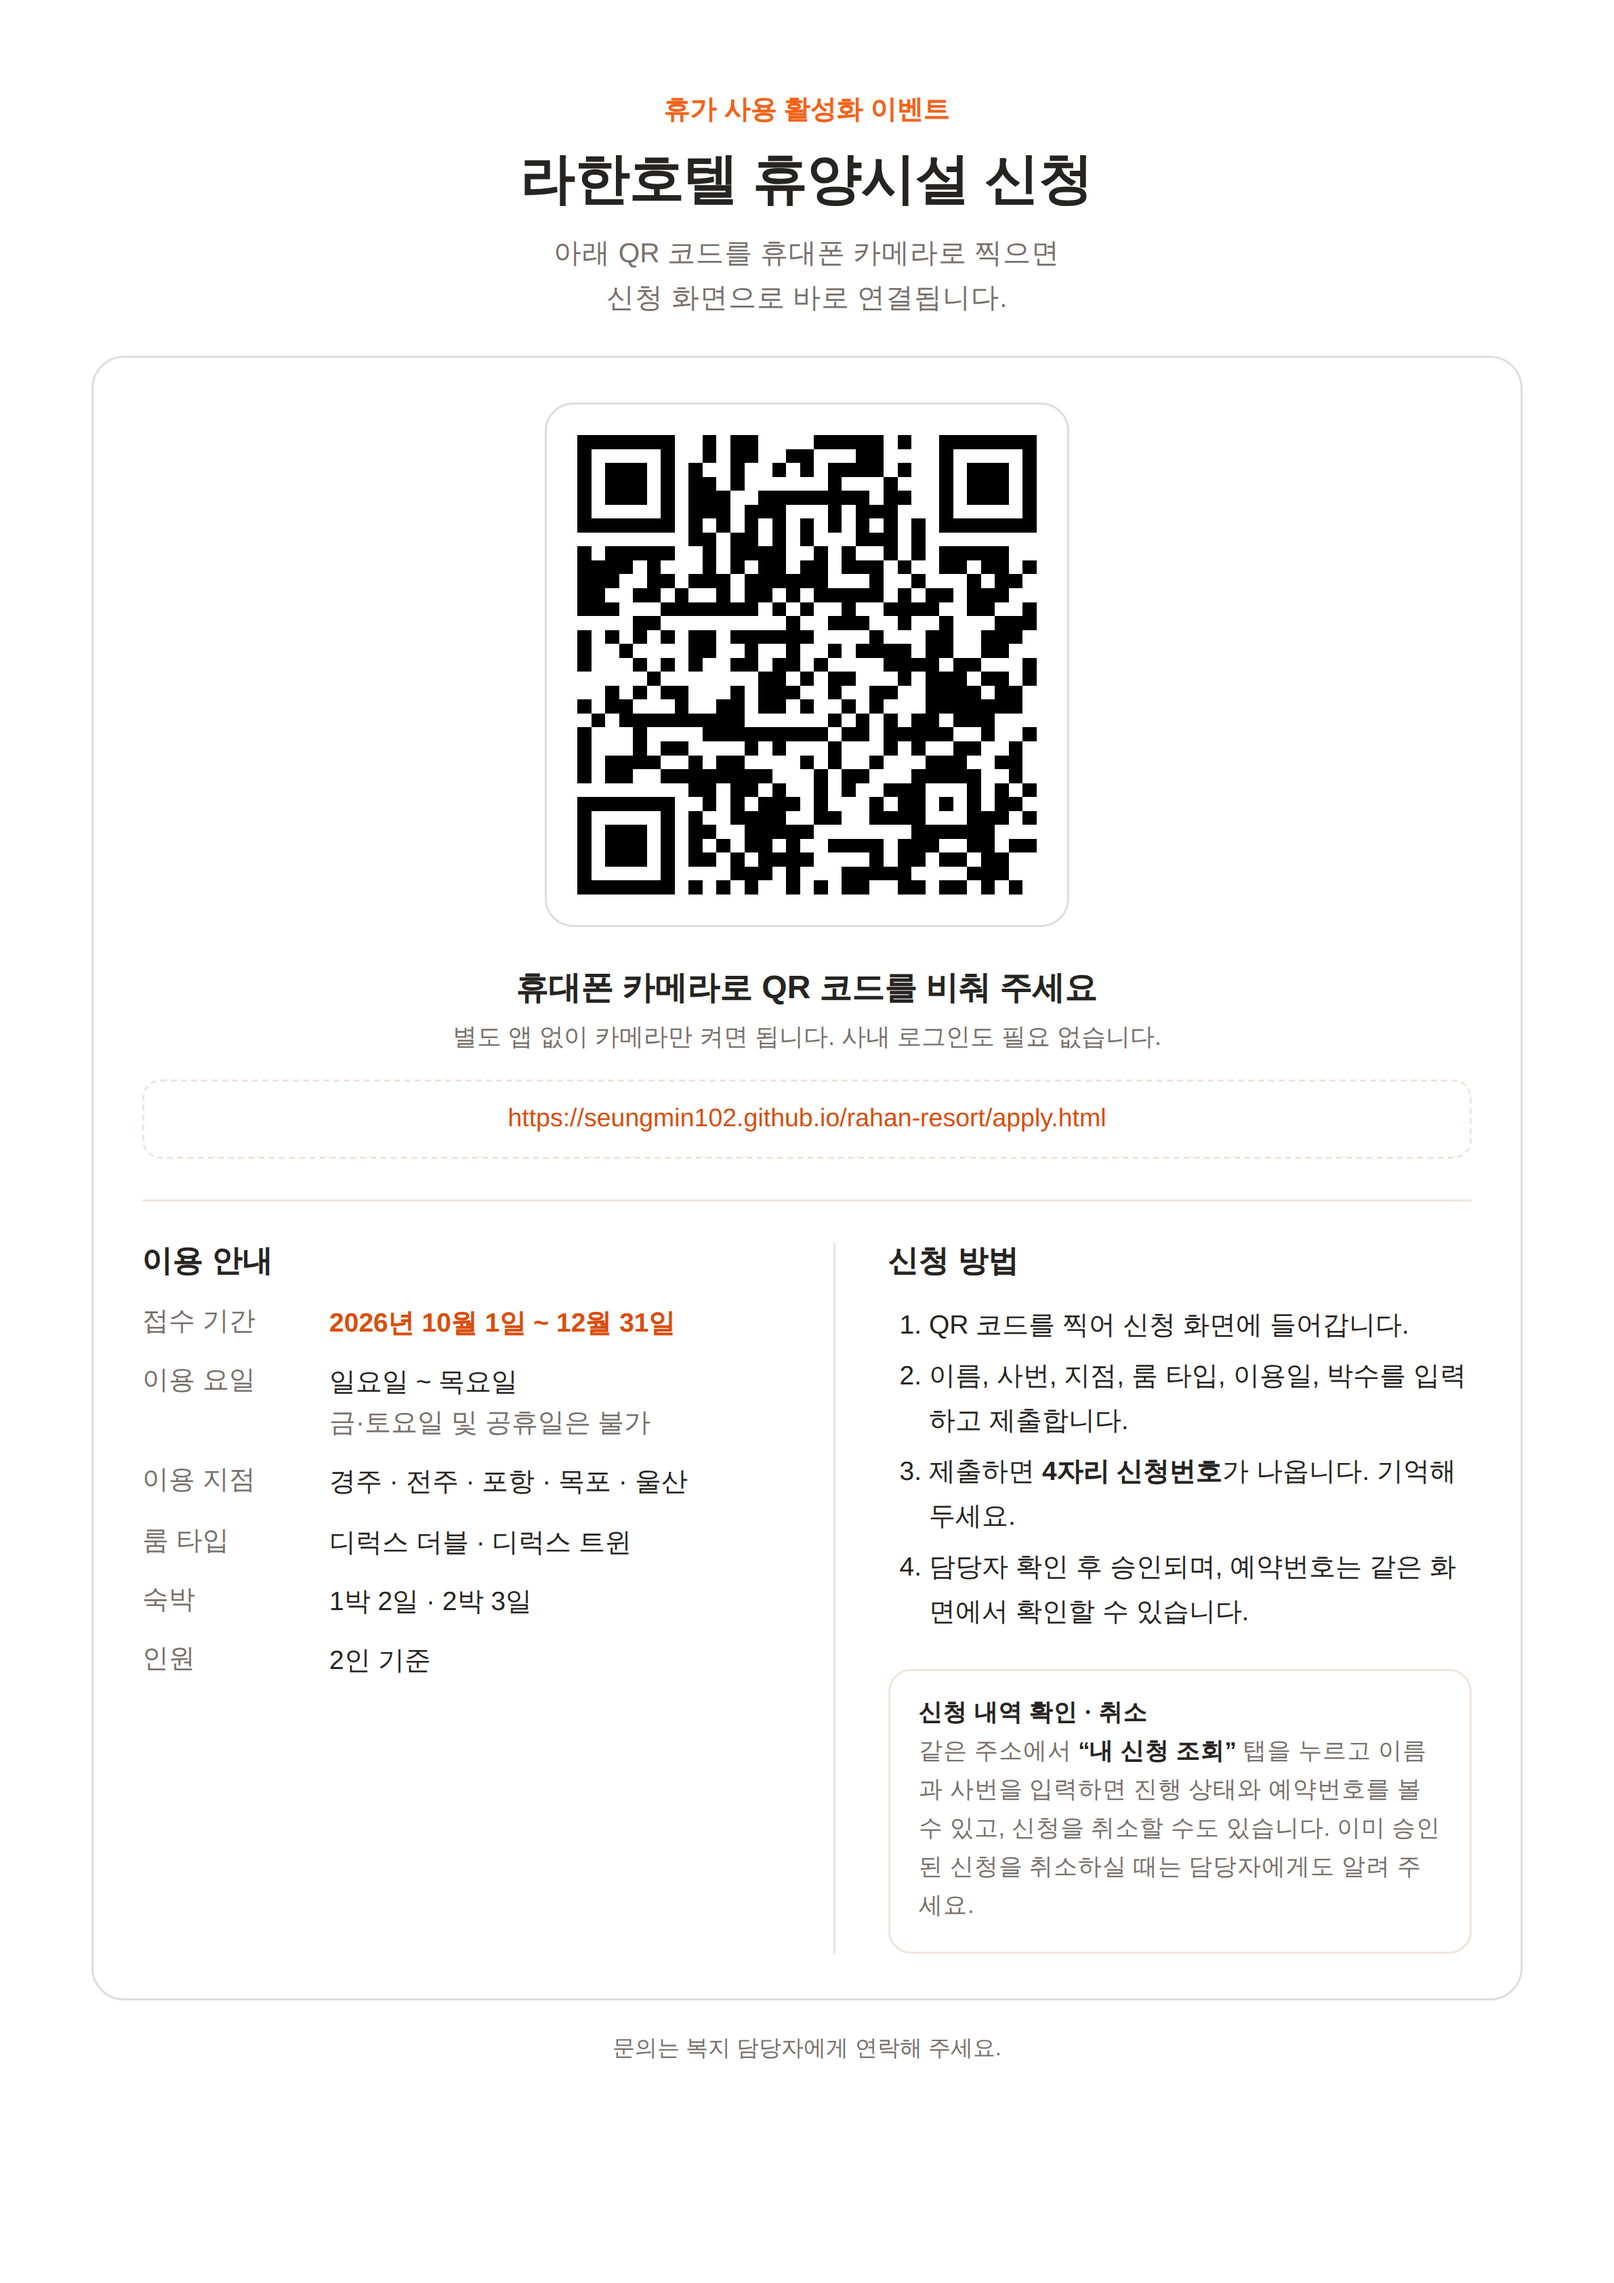
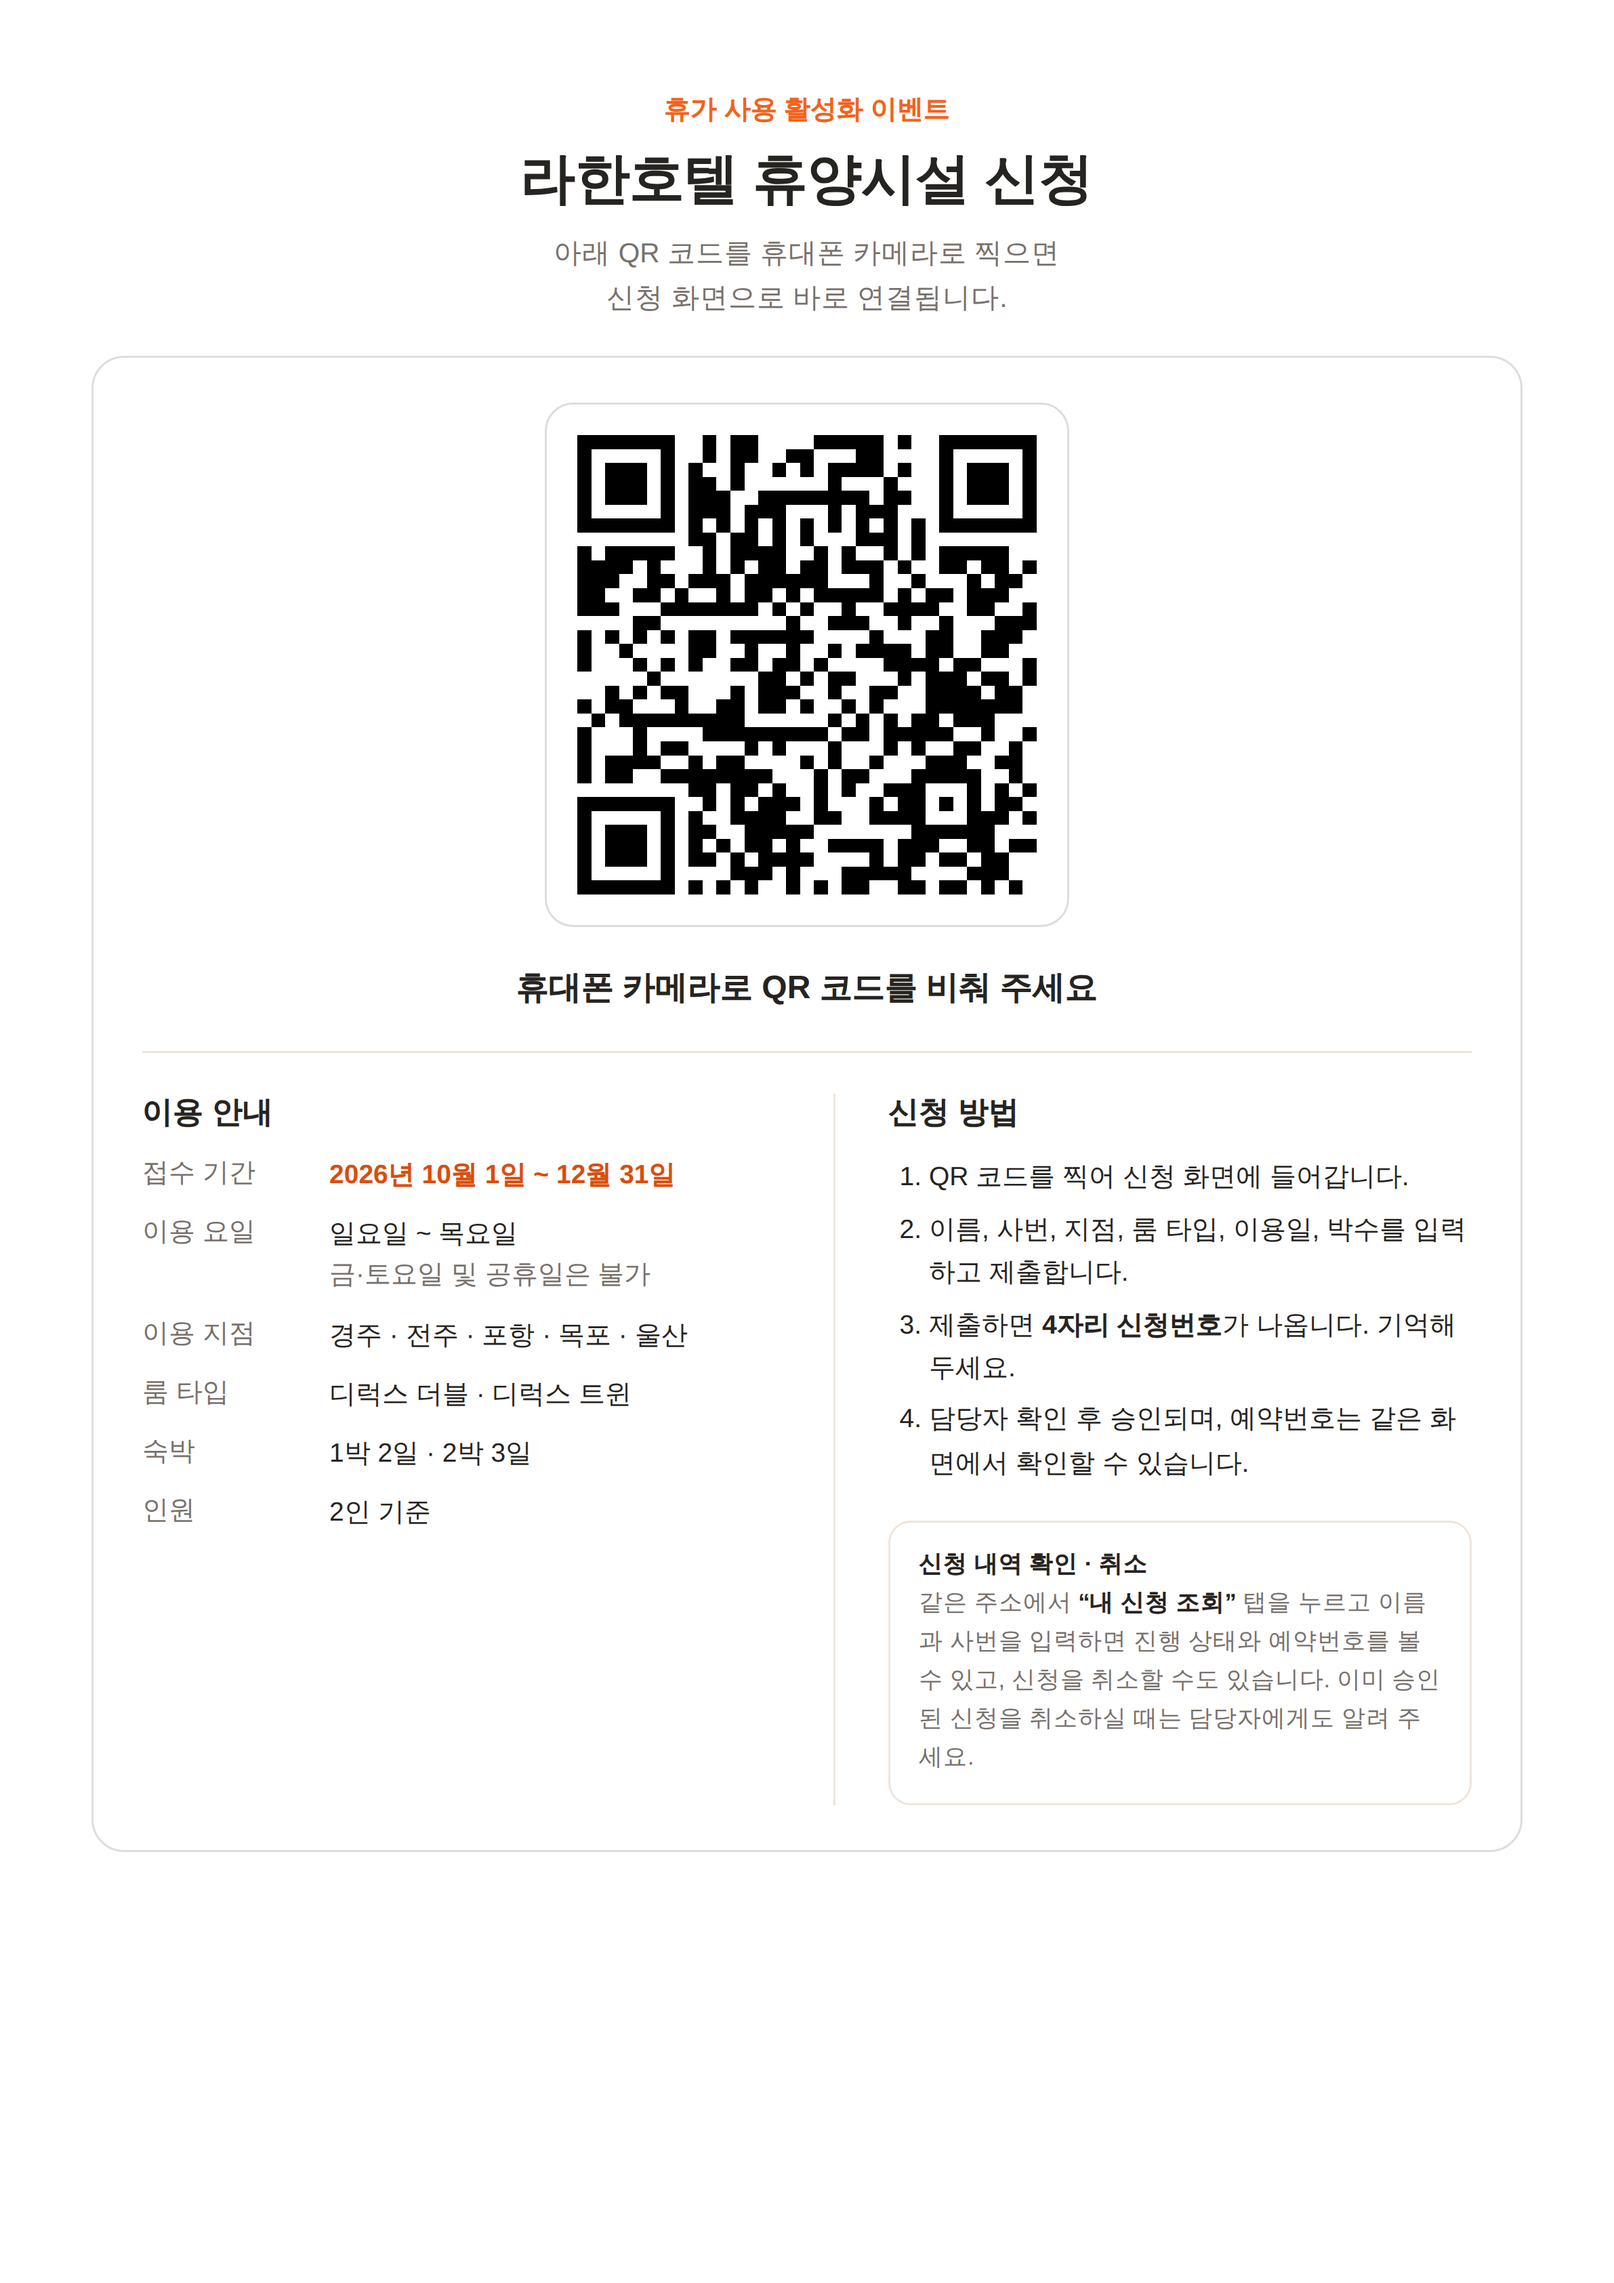
Drop the URL box, camera sub-line and footer from the notice
Removes "별도 앱 없이 카메라만 켜면 됩니다…", the printed address under the
QR, and the "문의는 복지 담당자에게 연락해 주세요" footer, along with the CSS
that only those elements used. qr-apply.png is regenerated to match, with
the QR decoded back out of it to confirm it still resolves to the
application URL. Print content drops to 825px against 1033px of usable
height, still one A4 page.

Note that the sheet no longer shows the address anywhere, so anyone who
cannot scan the QR has nothing to type in.

Claude-Session: https://claude.ai/code/session_01BDkio7mUBaN7MSLySic6b9

Changed region(s): [[0.1864, 0.4363, 0.9009, 0.8415], [0.0932, 0.4675, 0.1553, 0.748], [0.3728, 0.8727, 0.6213, 0.9038]]

diff --git a/qr-apply.html b/qr-apply.html
@@ -37,16 +37,8 @@
     border: 1px solid var(--line); border-radius: 14px;
   }
   .qr-frame svg{ display: block; width: 240px; height: 240px; }
-  .scan{ font-family: 'Gowun Dodum', sans-serif; font-size: 17px; font-weight: 700; margin: 20px 0 6px; }
-  .scan-sub{ color: var(--ink-soft); font-size: 13.5px; margin: 0 0 18px; }
+  .scan{ font-family: 'Gowun Dodum', sans-serif; font-size: 17px; font-weight: 700; margin: 20px 0 0; }
 
-  .url{
-    display: block; word-break: break-all; text-align: center;
-    font-size: 13px; color: var(--gold-deep); text-decoration: none;
-    background: var(--bg); border: 1px dashed var(--line);
-    border-radius: 9px; padding: 11px 14px; line-height: 1.5;
-  }
-  .url:hover{ text-decoration: underline; }
 
   .divider{ height: 1px; background: var(--line); margin: 30px 0; }
 
@@ -74,7 +66,6 @@
   }
   .note b{ color: var(--ink); font-weight: 700; }
 
-  footer{ text-align: center; color: var(--ink-soft); font-size: 12.5px; margin-top: 28px; }
 
   @media (max-width: 480px){
     .sheet{ padding: 32px 16px 44px; }
@@ -99,10 +90,8 @@
 
     .qr-frame{ border-color: #DDD; padding: 15px; }
     .qr-frame svg{ width: 226px; height: 226px; }
-    .scan{ font-size: 16px; margin: 15px 0 5px; }
-    .scan-sub{ font-size: 12px; margin-bottom: 12px; }
-    .url{ background: #fff; font-size: 12.5px; padding: 9px 12px; }
-
+    .scan{ font-size: 16px; margin: 15px 0 0; }
+    
     .divider{ margin: 20px 0; }
     .cols{ gap: 26px; }
     .cols section + section{ padding-left: 26px; }
@@ -112,8 +101,7 @@
     ol li{ margin-bottom: 4px; }
 
     .note{ background: #fff; margin-top: 18px; padding: 12px 14px; font-size: 11.5px; }
-    footer{ margin-top: 16px; font-size: 11px; }
-  }
+    }
 </style>
 </head>
 <body>
@@ -127,8 +115,6 @@
     <div class="qr-block">
       <div class="qr-frame"><svg xmlns="http://www.w3.org/2000/svg" viewBox="0 0 33 33" shape-rendering="crispEdges" role="img" aria-label="신청 화면 QR 코드"><path fill="#ffffff" d="M0 0h33v33H0z"/><path stroke="#000000" d="M0 0.5h7m2 0h1m1 0h2m4 0h5m1 0h1m2 0h7M0 1.5h1m5 0h1m2 0h1m1 0h2m2 0h2m3 0h2m4 0h1m5 0h1M0 2.5h1m1 0h3m1 0h1m1 0h1m2 0h1m2 0h1m1 0h1m1 0h4m1 0h1m2 0h1m1 0h3m1 0h1M0 3.5h1m1 0h3m1 0h1m1 0h2m1 0h1m6 0h1m3 0h1m3 0h1m1 0h3m1 0h1M0 4.5h1m1 0h3m1 0h1m1 0h3m2 0h8m1 0h2m2 0h1m1 0h3m1 0h1M0 5.5h1m5 0h1m1 0h3m1 0h3m3 0h1m1 0h3m3 0h1m5 0h1M0 6.5h7m1 0h1m1 0h1m1 0h1m1 0h1m1 0h1m1 0h1m1 0h1m1 0h1m1 0h1m1 0h7M8 7.5h2m1 0h2m1 0h1m1 0h1m3 0h3m1 0h1M0 8.5h1m1 0h5m2 0h1m1 0h4m2 0h1m1 0h1m2 0h1m1 0h1m1 0h5M0 9.5h4m1 0h1m3 0h1m1 0h1m1 0h2m1 0h2m1 0h3m1 0h1m2 0h2m1 0h2m1 0h1M0 10.5h3m2 0h2m1 0h3m1 0h6m3 0h1m2 0h1m3 0h1m1 0h2M0 11.5h2m2 0h2m1 0h1m2 0h1m1 0h2m1 0h1m1 0h5m1 0h1m1 0h2m1 0h3M0 12.5h3m3 0h7m1 0h1m1 0h1m2 0h1m2 0h4m2 0h2m2 0h1M4 13.5h2m9 0h1m2 0h3m2 0h1m2 0h1m3 0h3M0 14.5h1m1 0h1m1 0h1m1 0h1m1 0h2m1 0h6m4 0h1m3 0h2m2 0h3M0 15.5h1m2 0h1m4 0h2m2 0h1m2 0h1m2 0h1m1 0h4m1 0h2m2 0h2M0 16.5h1m3 0h1m1 0h1m1 0h1m2 0h2m1 0h2m1 0h1m4 0h4m1 0h2m3 0h1M5 17.5h1m7 0h2m1 0h1m1 0h2m3 0h1m1 0h3m1 0h2m1 0h1M2 18.5h1m1 0h1m1 0h2m3 0h1m1 0h3m2 0h1m2 0h2m2 0h4m1 0h2M0 19.5h1m1 0h2m3 0h1m2 0h2m1 0h2m1 0h1m2 0h1m1 0h1m3 0h7M1 20.5h1m1 0h9m6 0h1m1 0h1m1 0h1m1 0h2m1 0h3M0 21.5h1m3 0h1m4 0h9m1 0h2m1 0h5m2 0h1m2 0h1M0 22.5h1m3 0h1m1 0h2m4 0h1m1 0h1m3 0h1m3 0h1m1 0h1m2 0h2m2 0h1M0 23.5h1m1 0h4m2 0h1m1 0h2m4 0h1m1 0h1m2 0h1m3 0h3m2 0h2M0 24.5h1m1 0h2m2 0h8m3 0h1m1 0h2m3 0h5m2 0h1M8 25.5h2m1 0h2m1 0h1m2 0h1m1 0h1m2 0h3m3 0h1m1 0h1m1 0h1M0 26.5h7m2 0h1m1 0h1m1 0h3m1 0h1m3 0h1m1 0h2m1 0h1m1 0h1m1 0h2M0 27.5h1m5 0h1m1 0h1m2 0h4m2 0h2m2 0h4m3 0h3m1 0h1M0 28.5h1m1 0h3m1 0h1m1 0h2m2 0h5m7 0h6M0 29.5h1m1 0h3m1 0h1m1 0h1m1 0h1m1 0h2m1 0h1m2 0h4m1 0h3m2 0h2m1 0h2M0 30.5h1m1 0h3m1 0h1m1 0h2m1 0h1m1 0h4m4 0h1m1 0h2m1 0h2m1 0h2M0 31.5h1m5 0h1m4 0h3m1 0h1m3 0h5m4 0h3M0 32.5h7m1 0h1m1 0h1m1 0h1m2 0h1m1 0h1m1 0h2m2 0h2m1 0h2m1 0h1m1 0h1"/></svg></div>
       <p class="scan">휴대폰 카메라로 QR 코드를 비춰 주세요</p>
-      <p class="scan-sub">별도 앱 없이 카메라만 켜면 됩니다. 사내 로그인도 필요 없습니다.</p>
-      <a class="url" href="https://seungmin102.github.io/rahan-resort/apply.html">https://seungmin102.github.io/rahan-resort/apply.html</a>
     </div>
 
     <div class="divider"></div>
@@ -166,7 +152,6 @@
 
   </div>
 
-  <footer>문의는 복지 담당자에게 연락해 주세요.</footer>
 </div>
 
 </body>
